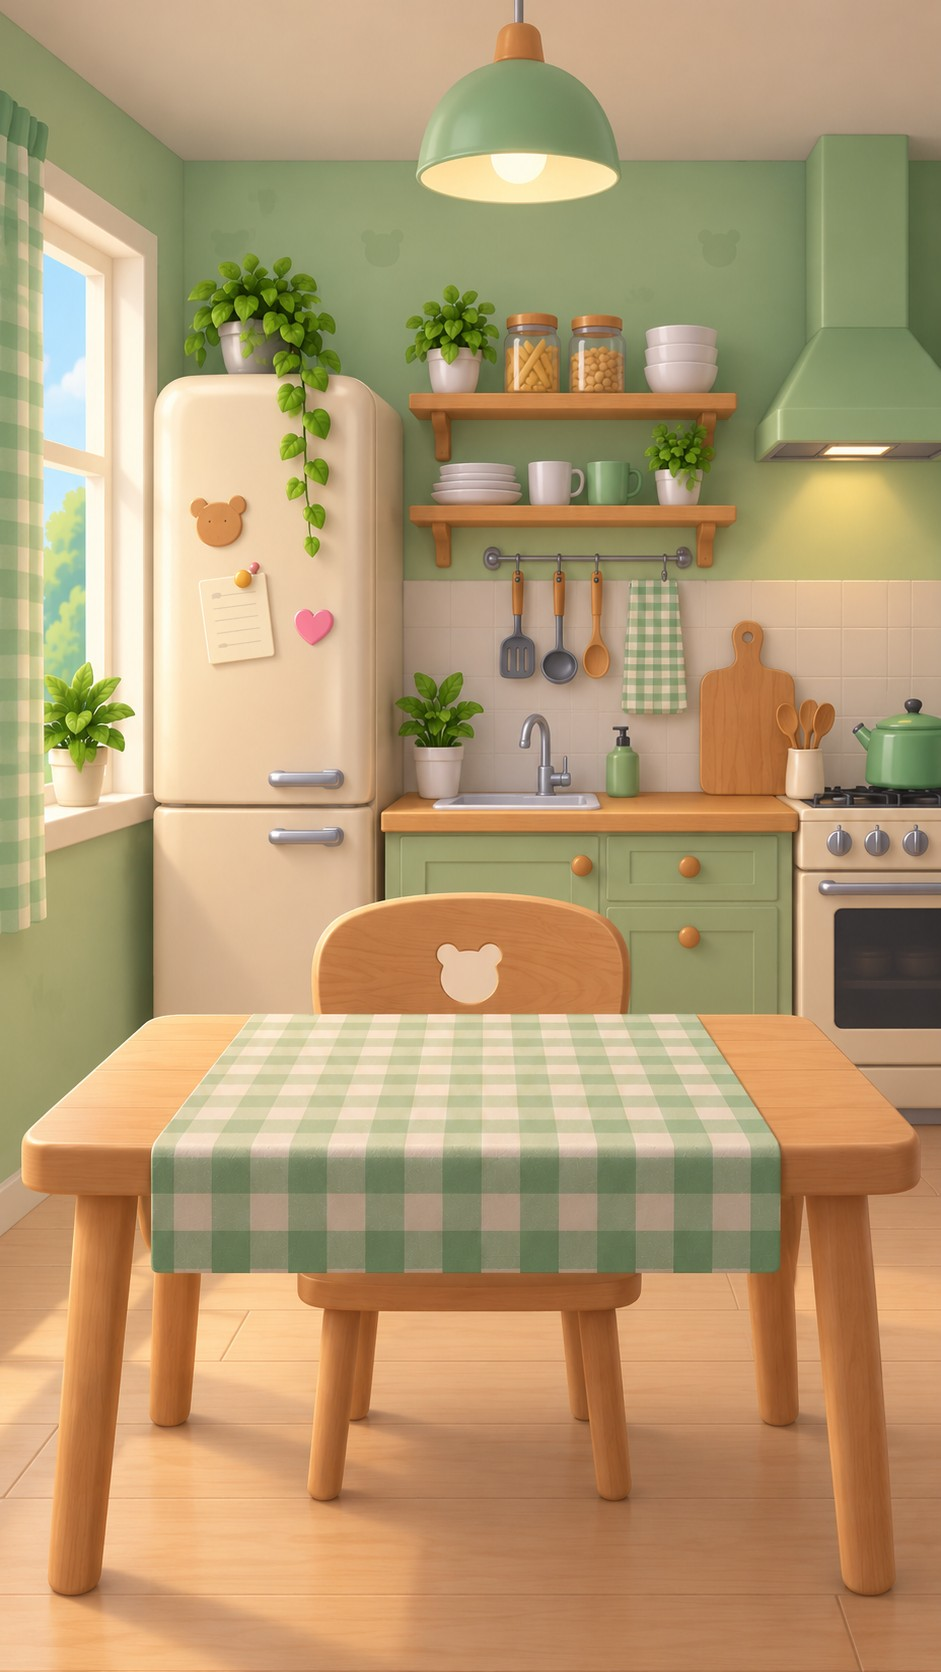
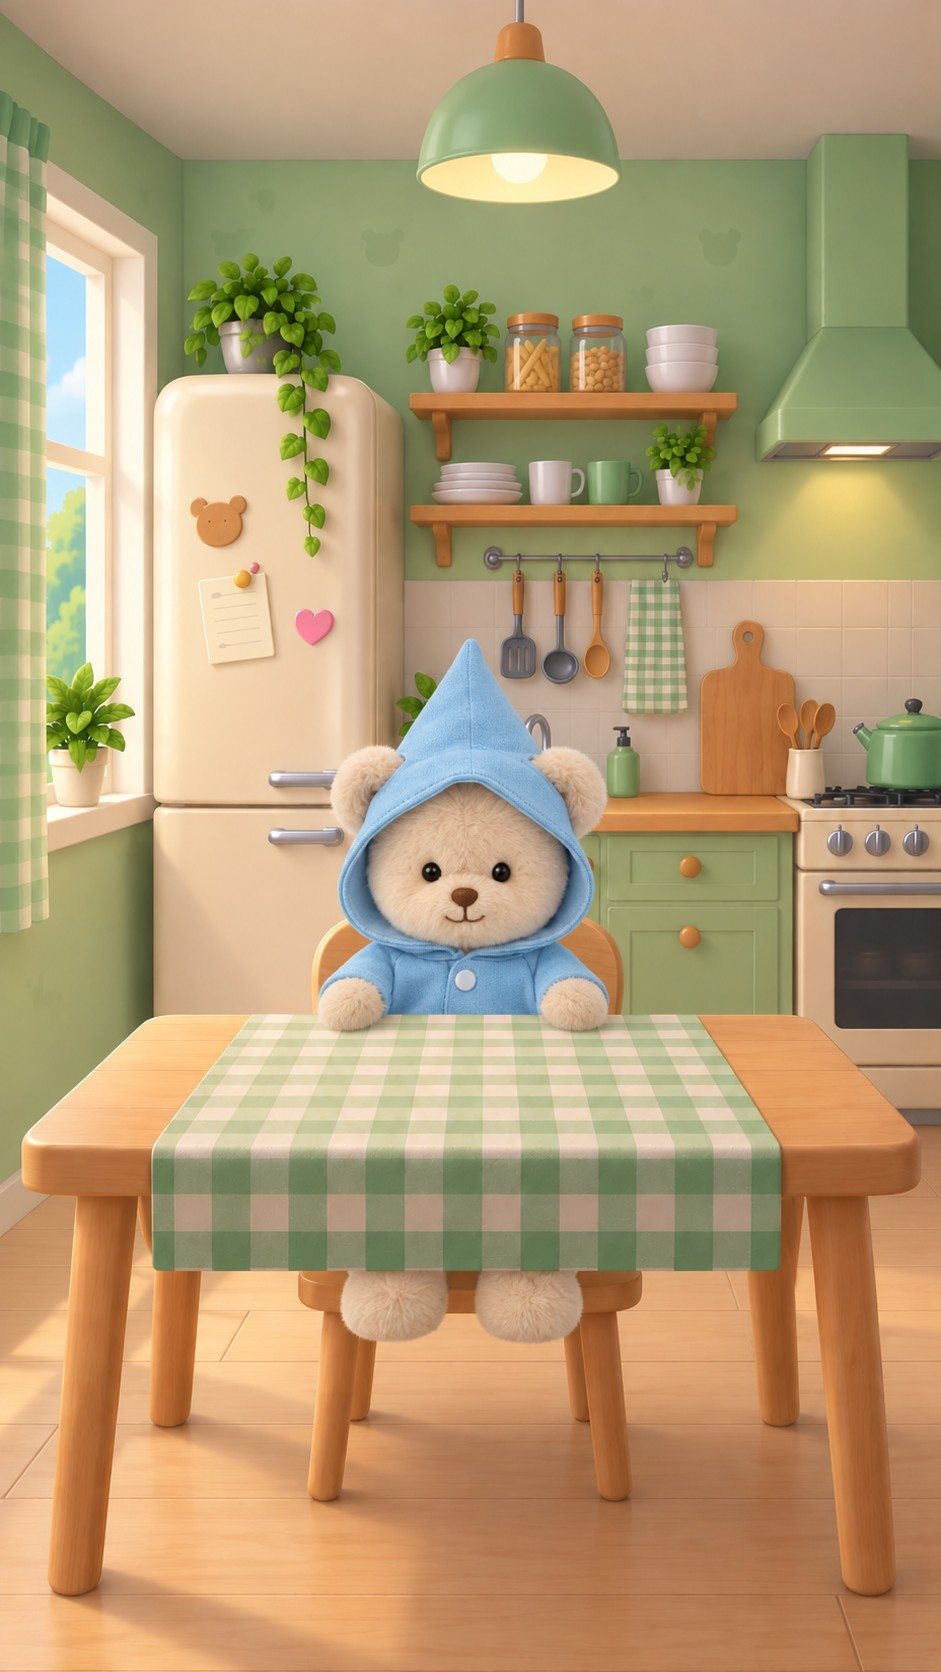
Кухня — картинкой заказчика, без рига
Заказчик: «сейчас мишку, именно рига, на кухню не ставим, делаем так, как
я прислал фотографию — просто картинка, заглушка, но чтобы смотрелось
красиво».

Так и есть: кадр с сидящим мишкой поставлен фоном целиком, живого рига
поверх него нет. Руки на столешнице, лапы в просвете под скатертью —
ровно то, чего стоящим ригом не изобразить. Разрез столом надвое,
сделанный часом раньше, больше не нужен: его заменила одна картинка.

У камеры появился признак «мишка нарисован на самой картинке». Он честнее
подгонки: раньше кухня отличалась от других комнат ростом мишки, и это
приходилось объяснять тем, что он там «изображает сидящего». Теперь
объяснять нечего — он там просто нарисован.

Геометрия кухни всё равно померена и оставлена: по ней считаются места
предметов и порядок отрисовки, и когда в риге появится поза сидя, камеру
не придётся мерить заново.

Claude-Session: https://claude.ai/code/session_01EkUPogq5Va4qQG792fJCS6

diff --git a/lib/game/room_camera.dart b/lib/game/room_camera.dart
@@ -27,6 +27,7 @@ class RoomCamera {
     this.bearOffsetX = 0.10,
     this.frontLine,
     this.frontBottom,
+    this.bearInArt = false,
   });
 
   /// Размер картинки в пикселях — по нему вписывается кадр.
@@ -76,6 +77,15 @@ class RoomCamera {
   /// выглядел бы приклеенным к ней сверху. `null` — мебель стоит на полу и
   /// просвета под ней нет.
   final double? frontBottom;
+
+  /// Мишка уже нарисован на самой картинке.
+  ///
+  /// Тогда живого рига поверх неё не ставят вовсе. Так сделана кухня:
+  /// заказчик прислал кадр, где мишка сидит за столом — руки на столешнице,
+  /// лапы в просвете под скатертью. Стоящим ригом такую посадку не
+  /// изобразить, а подгонять его обрезками значит выдавать за сидящего
+  /// того, кто стоит. Пока в риге нет позы сидя, на кухне живёт картинка.
+  final bool bearInArt;
 
   /// Высота камеры над полом в долях высоты стены.
   ///
@@ -131,46 +141,26 @@ const Map<RoomKind, RoomCamera> roomCameras = {
     bearHeight: 0.492,
     hasCeiling: true,
   ),
-  // Кухня, присланная 20.09. Нарисована длинным объективом: линии пола
-  // почти не сходятся, поэтому точка схода взята не по ним, а по тому, где
-  // горизонтали перестают показывать свою верхнюю грань, — между полками и
-  // столешницей.
+  // Кухня, присланная 20.09 вместе с сидящим мишкой. Живого рига здесь
+  // нет: мишка — часть картинки (см. [RoomCamera.bearInArt]).
   //
-  // Стол занимает весь передний план по центру, поэтому мишка стоит слева,
-  // в открытом углу пола между холодильником и ножкой стола.
+  // Геометрия всё равно померена: по ней считаются места предметов и
+  // порядок отрисовки, да и когда появится поза сидя, камеру не придётся
+  // мерить заново. Кадр 9:16, потолок свой, стык стены с полом около 0.70.
+  // Нарисована длинным объективом: линии пола почти не сходятся, поэтому
+  // точка схода взята по тому, где горизонтали перестают показывать свою
+  // верхнюю грань, — между полками и столешницей.
   RoomKind.kitchen: RoomCamera(
     artWidth: 941,
     artHeight: 1672,
     wallTop: 0.09,
     eyeLine: 0.42,
     floorLine: 0.70,
-    // Мишка сидит за столом на стуле — просьба заказчика 20.09. Позы сидя
-    // у рига пока нет, и сидит он по-честному только на вид: ростом его
-    // ставят как стоящего у стула, а столешница отрезает всё ниже пояса.
-    // Открытого пола перед столом в этом кадре всё равно нет — столешница
-    // идёт от края до края, встать там негде.
-    //
-    // 0.0 — ровно центр стула: его спинка в кадре от 0.32 до 0.68 ширины.
-    //
-    // Померено по картинке: верх столешницы 0.601, край скатерти 0.784.
-    // Между ними мишка скрыт столом, выше видны голова и плечи, ниже — лапы
-    // в просвете между ножками.
-    //
-    // Метры здесь намеренно не сходятся с другими комнатами, и это не
-    // недосмотр. В кухне мишка не стоит, а изображает сидящего — телом
-    // стоящего рига, другого пока нет. Сидящий ниже стоящего примерно на
-    // четверть, поэтому, чтобы голова и лапы оказались там, где они были бы
-    // у сидящего, стоящее тело приходится брать выше. Считать его рост по
-    // линии пола в этом кадре бессмысленно: он на ней не стоит.
-    //
-    // Когда в риге появится поза сидя, эти два числа вернутся к общему
-    // ряду, а разрез столом останется как есть.
     standLine: 0.87,
     bearHeight: 0.52,
     hasCeiling: true,
     bearOffsetX: 0.0,
-    frontLine: 0.60,
-    frontBottom: 0.786,
+    bearInArt: true,
   ),
 };
 

diff --git a/test/room_scale_test.dart b/test/room_scale_test.dart
@@ -32,15 +32,16 @@ void main() {
       }
     });
 
-    test('сидящего выдаёт только кухня, и только пока нет позы', () {
-      // Если однажды таких комнат станет больше одной, это перестанет быть
-      // исключением и должно стать полем рига, а не подгонкой камеры.
-      final odd = [
+    test('где мишка часть картинки, рига поверх неё нет', () {
+      // Кухня: заказчик прислал кадр, где мишка сидит за столом. Стоящим
+      // ригом такую посадку не изобразить, и подгонять его обрезками
+      // значит выдавать стоящего за сидящего.
+      final drawn = [
         for (final room in RoomKind.values)
-          if ((cameraOf(room).bearMetres() - 1.18).abs() > 0.05) room,
+          if (cameraOf(room).bearInArt) room,
       ];
 
-      expect(odd, [RoomKind.kitchen]);
+      expect(drawn, [RoomKind.kitchen]);
     });
 
     test('у самого нижнего края кадра то же тело читалось бы мельче', () {
@@ -185,14 +186,10 @@ void main() {
   group('Мебель переднего плана', () {
     const phone = Size(430, 932);
 
-    test('в кухне мишка разрезан столом надвое', () {
-      // Видны голова с плечами над столешницей и лапы в просвете под
-      // скатертью. Если полоса останется одна, он будет обрываться на
-      // столе и выглядеть приклеенным к нему сверху.
-      final slices = RoomFrame.of(phone, RoomKind.kitchen).bearSlices;
-
-      expect(slices, hasLength(2));
-      expect(slices.first.bottom, lessThan(slices.last.top));
+    test('в кухне рига не рисуют вовсе', () {
+      // Мишка там нарисован на самой картинке. Поставь поверх него живого —
+      // на стуле окажется двое.
+      expect(RoomFrame.of(phone, RoomKind.kitchen).bearSlices, isEmpty);
     });
 
     test('в остальных комнатах мишка цел', () {

diff --git a/lib/widgets/room_scene_backdrop.dart b/lib/widgets/room_scene_backdrop.dart
@@ -99,6 +99,9 @@ class RoomFrame {
   /// фоне, то есть лежит под мишкой, и без этих полос его ноги оказались
   /// бы поверх столешницы, а сам он выглядел бы приклеенным к столу.
   List<({double top, double bottom})> get bearSlices {
+    // Мишка нарисован на самой картинке — живого поверх неё не надо.
+    if (camera.bearInArt) return const [];
+
     final front = camera.frontLine;
     if (front == null) return [(top: bearTop, bottom: standY)];
 
